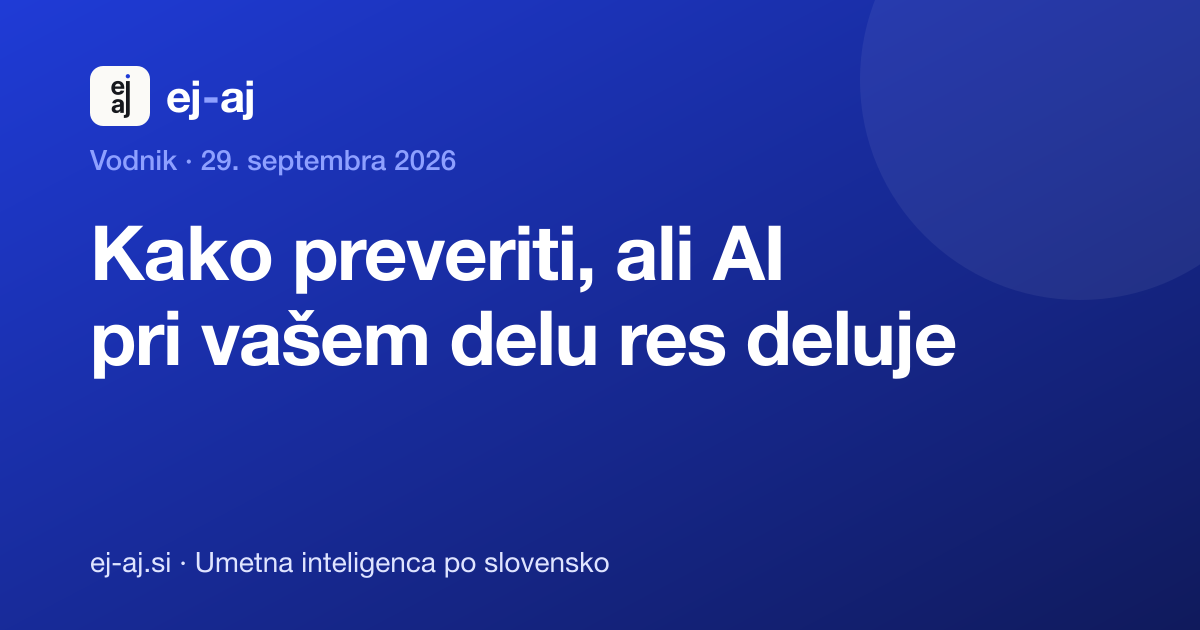
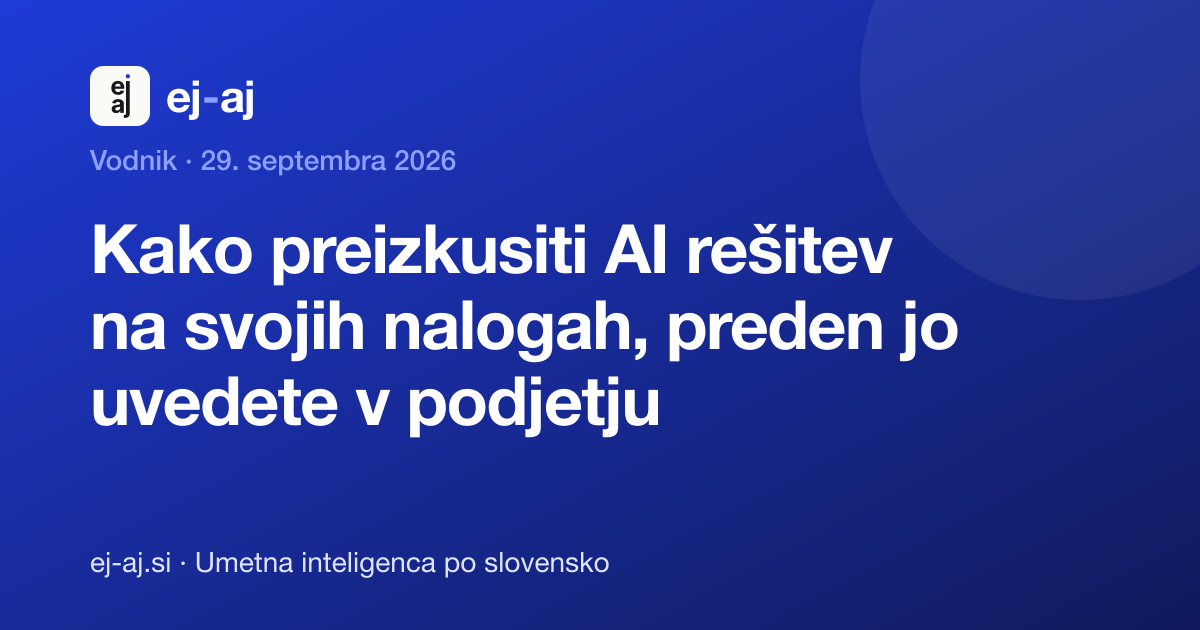
Content: clearer title and plain-language copy (kako-preveriti-ali-ai-deluje)

Changed region(s): [[0.0617, 0.3317, 0.8017, 0.6937]]

diff --git a/src/content/novice/2026-09-29-kako-preveriti-ali-ai-deluje.md b/src/content/novice/2026-09-29-kako-preveriti-ali-ai-deluje.md
@@ -1,74 +1,78 @@
 ---
-title: 'Kako preveriti, ali AI pri vašem delu res deluje'
-description: 'Preprost postopek za ekipe: deset realnih nalog, jasno merilo uspeha, ena sprememba naenkrat in tabela z rezultati. Tako veste, ali je AI rešitev res pripravljena za vsakdanjo rabo.'
+title: 'Kako preizkusiti AI rešitev na svojih nalogah, preden jo uvedete v podjetju'
+description: 'Postopek v petih korakih za ekipe brez programerjev: deset pravih primerov iz dela, jasno merilo uspeha, ena sprememba naenkrat in tabela z rezultati.'
 date: 2026-09-29
 type: vodnik
 ---
 
-Ko ekipa AI uporablja nekaj tednov, se pojavi vprašanje, ali neka rešitev res deluje: navodilo za povzemanje reklamacij, skill za pripravo ponudb, avtomatizacija za razvrščanje e-pošte. Odgovor "zdi se mi, da kar dobro" ni dovolj, da bi rešitev dali vsem zaposlenim. Ta vodnik opisuje preprost postopek, s katerim to preverite brez programiranja in brez posebnih orodij.
+Ko ekipa AI uporablja nekaj tednov, nastanejo prve rešitve: navodilo za povzemanje reklamacij, skill za pripravo ponudb, avtomatizacija za razvrščanje e-pošte. Preden tako rešitev dobijo vsi zaposleni, morate vedeti, ali res dobro dela. Občutek "zdi se, da kar dobro" za to ni dovolj. Ta vodnik opisuje preprost postopek, s katerim to preverite brez programiranja in brez posebnih orodij.
 
 ## Na kratko
 
-- Preizkusite na desetih realnih nalogah iz svojega dela, ne na splošnih testih ali primerih s spleta.
-- Pred testom zapišite, kaj pomeni uspeh. Za vsako nalogo beležite, ali je uspela, koliko ste morali popraviti, koliko je stala in koliko časa je vzela.
-- Spremenite eno stvar naenkrat (model, navodilo ali priložene dokumente), vse drugo pustite enako.
-- Obseg testiranja naj sledi zrelosti rešitve: za prvi poskus je dovolj ročno pregledati ducat primerov, za rešitev, ki jo uporablja vse podjetje, potrebujete več.
+- Preizkusite na desetih pravih primerih iz svojega dela, ne na primerih s spleta.
+- Preden začnete, zapišite, kdaj je rezultat dober. Za vsak primer zapišite, ali je uspel, koliko ste morali popraviti, koliko je stal in koliko časa je trajal.
+- Naenkrat spremenite samo eno stvar (model, navodilo ali dokumente), vse drugo naj ostane enako.
+- Za prvi poskus je dovolj ročno pregledati ducat primerov. Ko rešitev uporablja celo podjetje, jo preizkusite na več primerih.
 
-## Zakaj ne zadošča izbrati "najboljši model"
+## Zakaj ni dovolj izbrati najboljši model
 
-Rezultat ni odvisen samo od modela, ampak tudi od tega, kar je okoli njega: navodil, dokumentov, ki jih model dobi, orodij, do katerih ima dostop, in tega, kaj si zapomni med koraki. Primer iz septembra 2026: fundacija ARC Prize je isti model, Gemini 3.8 Flash, testirala na testu ARC-AGI-3 z dvema različnima nastavitvama. S standardno je dosegel 10,37 %, z nastavitvijo, ki med zahtevami ohrani modelovo prejšnje razmišljanje in krajša dolge pogovore, pa 35 %. Model je bil isti, rezultat več kot trikrat boljši.
+Kako dobro AI opravi nalogo, ni odvisno samo od modela. Odvisno je tudi od navodil, ki jih dobi, dokumentov, ki jih ima na voljo, orodij, ki jih sme uporabljati, in tega, kaj si zapomni med koraki.
 
-Za podjetje to pomeni, da primerjave modelov na lestvicah malo povedo o tem, kako bo AI opravil vaše delo. To morate preizkusiti sami, na svojih nalogah.
+Primer iz septembra 2026: organizacija ARC Prize je isti model, Gemini 3.8 Flash, preizkusila na zahtevnem testu ARC-AGI-3 na dva načina. Pri prvem je dosegel 10,37 %. Pri drugem si je model med koraki zapomnil svoje prejšnje razmišljanje, dolge pogovore pa je sproti skrajšal, in dosegel 35 %. Model je bil isti, rezultat več kot trikrat boljši.
+
+Za podjetje to pomeni, da lestvice najboljših modelov malo povedo o tem, kako bo AI opravil vaše delo. To morate preizkusiti sami, na svojih nalogah.
 
 Viri: [ARC Prize, Gemini 3.8 Flash](https://arcprize.org/results/google-gemini-3-8-flash), [The Neuron, 28. september 2026](https://www.theneurondaily.com/p/did-openai-lose-control)
 
 ## Postopek v petih korakih
 
-### 1. Izberite deset realnih nalog
+### 1. Izberite deset pravih primerov
 
-Vzemite primere iz zadnjih tednov: deset pravih reklamacij, deset povpraševanj, deset računov. Anthropic v navodilih za testiranje priporoča, naj testi posnemajo resnično mešanico nalog, in naj ne pozabite na robne primere. Med deset primerov zato dajte tudi nekaj težjih: nepopoln dokument, zelo dolgo sporočilo, nejasno vprašanje, pri katerem bi se tudi dva sodelavca težko strinjala. Podatke strank pred testom anonimizirajte ali uporabljajte samo poslovni paket, ki je dovoljen za take podatke.
+Vzemite primere iz zadnjih tednov: deset pravih reklamacij, deset povpraševanj ali deset računov. Anthropic v navodilih za preizkušanje priporoča, naj bodo primeri podobni tistim, ki jih boste res obdelovali, in naj med njimi ne manjkajo neobičajni. Med deset primerov zato dajte tudi nekaj težjih: nepopoln dokument, zelo dolgo sporočilo, nejasno vprašanje, pri katerem bi se tudi dva sodelavca težko strinjala.
 
-### 2. Zapišite, kaj je uspeh
+Iz primerov pred preizkusom odstranite imena in druge osebne podatke strank. Druga možnost je, da uporabljate poslovni paket, ki je za take podatke dovoljen.
 
-Merilo naj bo konkretno. "Dober povzetek" ni merilo. "Povzetek ima številko naročila, opis težave in zahtevek stranke, v največ petih vrsticah" je. Anthropic priporoča, da je merilo natančno in merljivo, ter opozarja, da večina rab potrebuje več meril hkrati, na primer točnost, ton, varovanje zasebnosti, hitrost in ceno.
+### 2. Zapišite, kdaj je rezultat dober
 
-### 3. Zamrznite vse razen ene stvari
+Merilo naj bo konkretno. "Dober povzetek" ni merilo. "Povzetek ima številko naročila, opis težave in zahtevo stranke ter ni daljši od petih vrstic" je merilo. Anthropic priporoča, da je merilo natančno in da ga je mogoče izmeriti. Večina rab potrebuje več meril hkrati, na primer točnost, ton, varovanje zasebnosti, hitrost in ceno.
 
-Določite model, navodilo in dokumente, ki jih AI dobi, ter jih med testom ne spreminjajte. Ko želite nekaj izboljšati, spremenite samo eno stvar in ponovite vseh deset nalog. Če hkrati zamenjate model in prepišete navodilo, ne boste vedeli, kaj je pomagalo.
+### 3. Spremenite eno stvar naenkrat
 
-### 4. Beležite v tabelo
+Določite model, navodilo in dokumente, ki jih AI dobi, in jih med preizkusom ne spreminjajte. Ko želite nekaj izboljšati, spremenite samo eno stvar in ponovite vseh deset primerov. Če hkrati zamenjate model in prepišete navodilo, ne boste vedeli, kaj je pomagalo.
 
-Za vsako nalogo zapišite:
+### 4. Rezultate zapisujte v tabelo
 
-| Naloga | Uspelo (da/ne) | Koliko popravkov | Ročno delo (min) | Strošek | Čas |
+Za vsak primer zapišite:
+
+| Primer | Uspelo (da/ne) | Koliko popravkov | Ročno delo (min) | Strošek | Čas |
 |---|---|---|---|---|---|
 | Reklamacija 1 | | | | | |
 | Reklamacija 2 | | | | | |
 
-Najbolj povedni sta stolpca s popravki in ročnim delom. Rešitev, ki uspe v osmih primerih od desetih, a pri vsakem zahteva deset minut popravljanja, morda ne prihrani časa.
+Največ povesta stolpca s popravki in ročnim delom. Če rešitev uspe pri osmih primerih od desetih, a pri vsakem porabite deset minut za popravke, morda sploh ne prihrani časa.
 
 ### 5. Ponovite po vsaki spremembi
 
-Isto tabelo izpolnite po vsaki spremembi navodila ali modela. Tako vidite, ali se je rešitev res izboljšala ali se je le spremenila. Ko rezultat ostane stabilen in je ročnega dela malo, je rešitev pripravljena, da jo preizkusi širša skupina.
+Isto tabelo izpolnite po vsaki spremembi navodila ali modela. Tako vidite, ali je rešitev res boljša ali samo drugačna. Ko so rezultati več krogov zapored podobni in je ročnega dela malo, lahko rešitev preizkusi širša skupina.
 
 Viri: [Anthropic, Define success criteria and build evaluations](https://platform.claude.com/docs/en/test-and-evaluate/develop-tests), [The Neuron, 28. september 2026](https://www.theneurondaily.com/p/did-openai-lose-control)
 
-## Koliko testiranja je dovolj
+## Koliko preizkušanja je dovolj
 
-Andrew Ng v svojem tedenskem pismu v The Batch svetuje, naj se obseg testiranja prilagodi zrelosti projekta. Na začetku je dovolj ročno pregledati ducat primerov in presoditi, ali so smiselni. Pri zrelem izdelku pa gre za desettisoče primerov, natančnejšo ocenjevalno lestvico in preverjanje posledic, ne samo kakovosti posameznega odgovora.
+Andrew Ng, ustanovitelj DeepLearning.AI, v tedenskem pismu v glasilu The Batch svetuje, naj bo preizkušanje tako obsežno, kot je zrela rešitev. Na začetku je dovolj ročno pregledati ducat primerov in presoditi, ali so rezultati smiselni. Pri zrelem izdelku pa gre za desettisoče primerov, natančnejša merila in preverjanje, kaj se zgodi po odgovoru, ne samo, kako dober je odgovor.
 
-Za manjše podjetje je sredina običajno prava mera. Za prvi poskus zadošča deset primerov in vaša presoja. Ko rešitev daste vsem zaposlenim ali jo povežete z ukrepi navzven (odgovori strankam, knjiženje, naročila), povečajte število primerov in naj rezultate pregleda še nekdo, ki rešitve ni pripravljal.
+Za manjše podjetje je prava mera nekje vmes. Za prvi poskus zadošča deset primerov in vaša presoja. Ko rešitev dobijo vsi zaposleni ali ko njen rezultat gre navzven (odgovori strankam, knjiženje, naročila), jo preizkusite na več primerih. Rezultate naj pregleda še nekdo, ki rešitve ni pripravljal.
 
 Vir: [The Batch, številka 372](https://www.deeplearning.ai/the-batch/issue-372/)
 
 ## Kontrolni seznam
 
-- [ ] Imamo deset realnih primerov iz svojega dela, med njimi nekaj težjih.
-- [ ] Podatki strank so anonimizirani ali v orodju, ki je za njih dovoljeno.
-- [ ] Zapisali smo merilo uspeha, preden smo začeli.
-- [ ] Model, navodilo in dokumenti so med testom enaki.
+- [ ] Imamo deset pravih primerov iz svojega dela, med njimi nekaj težjih.
+- [ ] Iz primerov smo odstranili osebne podatke ali uporabljamo orodje, ki je za njih dovoljeno.
+- [ ] Preden smo začeli, smo zapisali, kdaj je rezultat dober.
+- [ ] Model, navodilo in dokumenti so bili med preizkusom enaki.
 - [ ] Za vsak primer imamo zapisan uspeh, popravke, ročno delo, strošek in čas.
 - [ ] Po vsaki spremembi smo ponovili vseh deset primerov.
 - [ ] Preden rešitev dobijo vsi, jo je pregledal še nekdo drug.
 
-Če rešitev še izbirate, pomaga vodnik [Kako izbrati AI orodje za podjetje](/vodniki/kako-izbrati-ai-orodje-za-podjetje/). Za pisanje navodil, ki jih nato preizkušate, je v priročniku vodnik [Kako napisati dober prompt](/vodniki/kako-napisati-dober-prompt/).
+Če rešitev šele izbirate, pomaga vodnik [Kako izbrati AI orodje za podjetje](/vodniki/kako-izbrati-ai-orodje-za-podjetje/). Kako napisati navodila, ki jih nato preizkušate, opisuje vodnik [Kako napisati dober prompt](/vodniki/kako-napisati-dober-prompt/).
